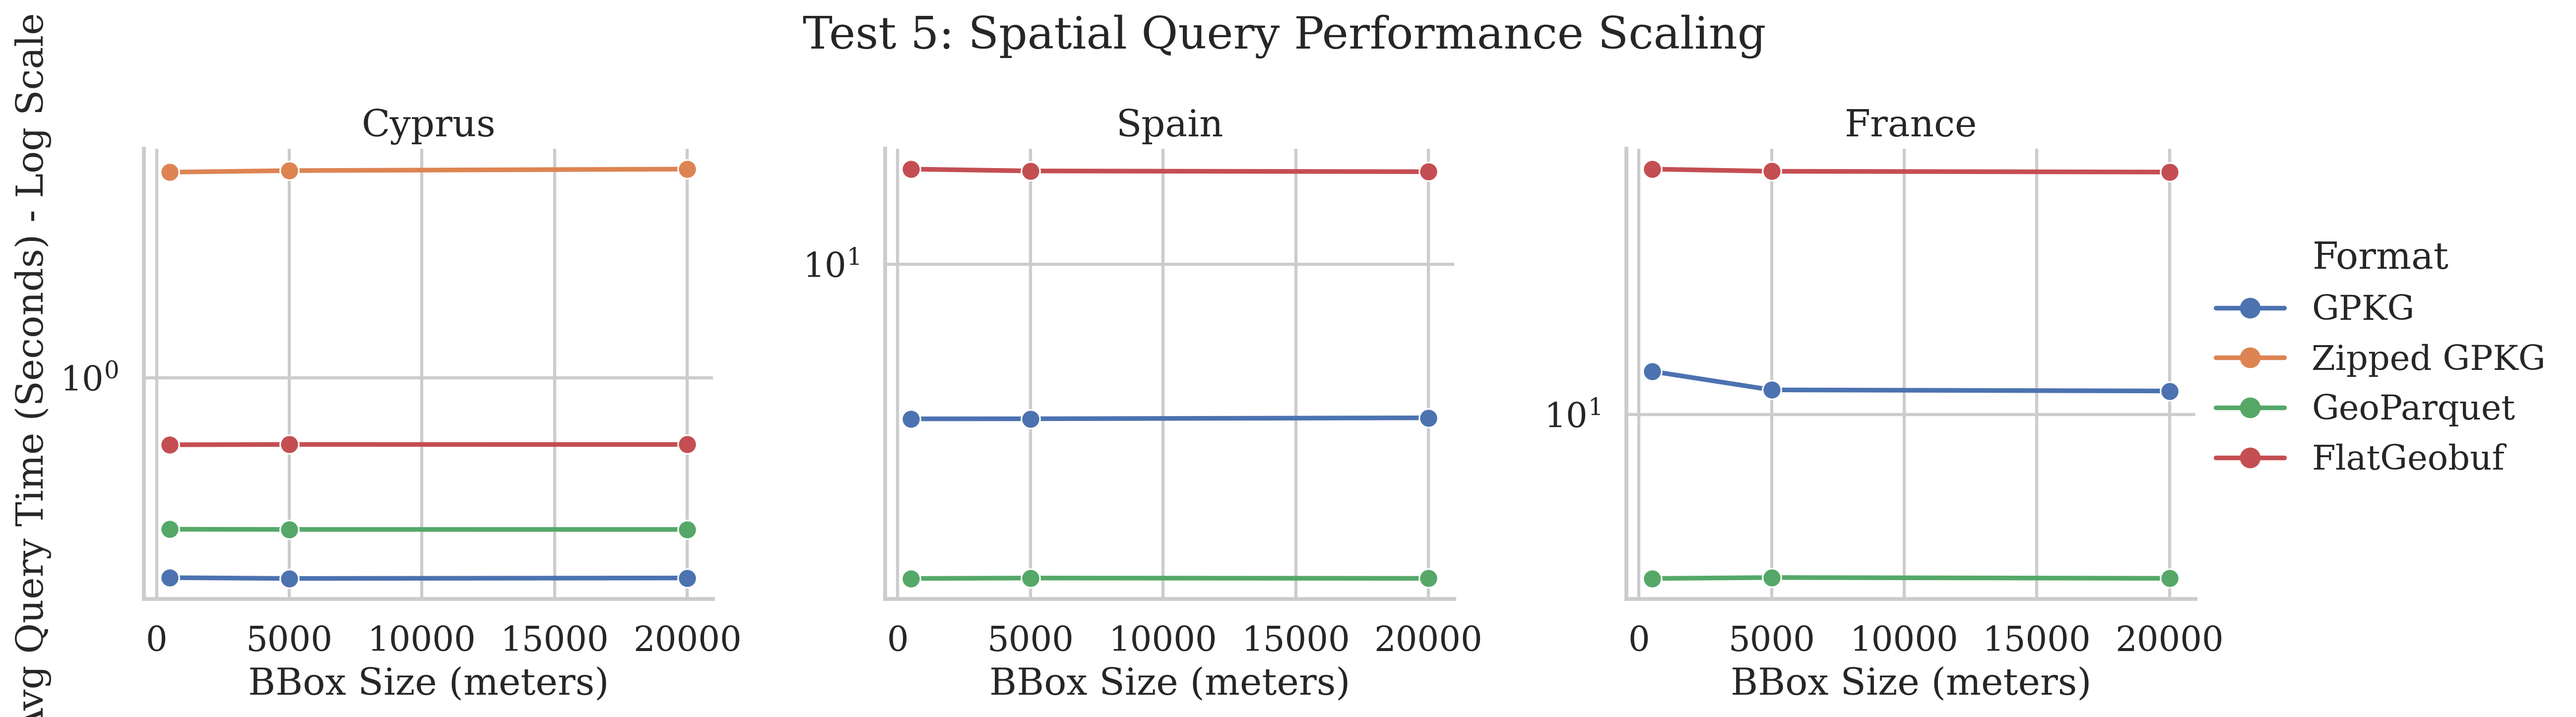
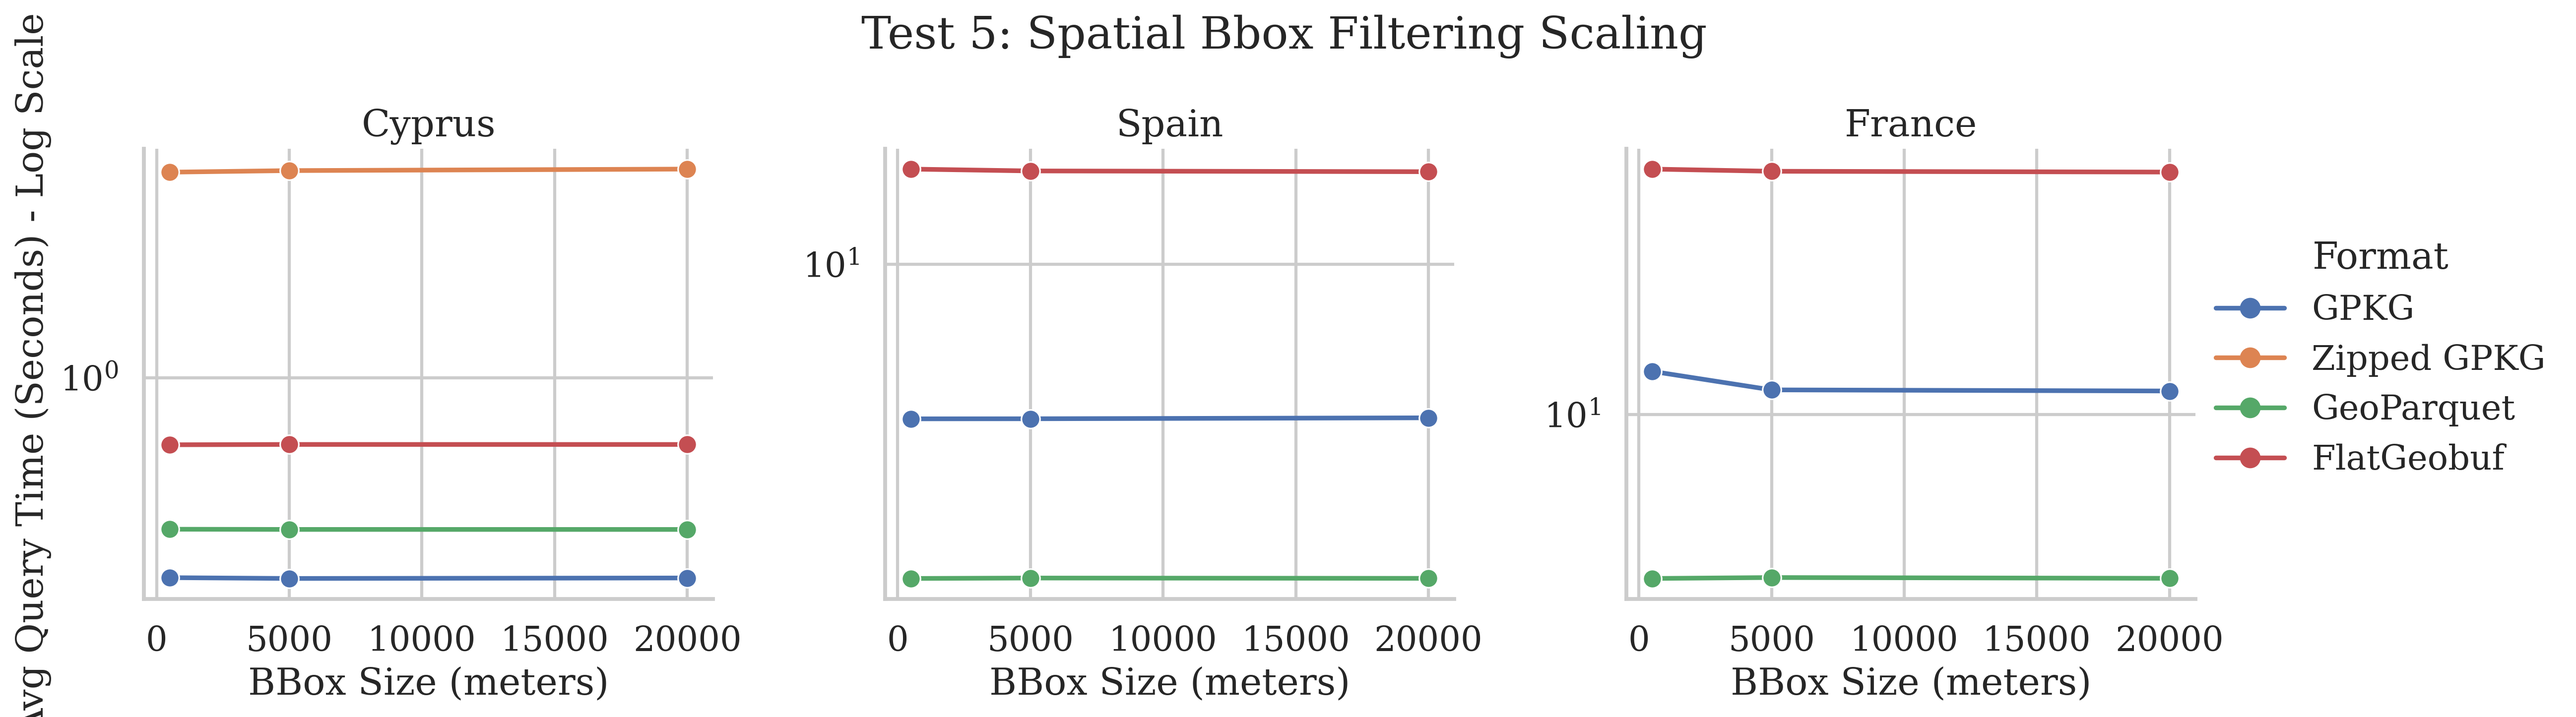
updated plot

Changed region(s): [[0.312, 0.0, 0.6864, 0.0934]]

diff --git a/benchmarking/generate_benchmarking_plots.py b/benchmarking/generate_benchmarking_plots.py
@@ -87,7 +87,7 @@ for ax in g5.axes.flat:
 g5.set_axis_labels("BBox Size (meters)", "Avg Query Time (Seconds) - Log Scale")
 g5.set_titles("{col_name}")
 plt.subplots_adjust(top=0.8)
-g5.fig.suptitle('Test 5: Spatial Query Performance Scaling')
+g5.fig.suptitle('Test 5: Spatial Bbox Filtering Scaling')
 plt.savefig("bench_5_bbox.png", dpi=300, bbox_inches='tight')
 
 print("5 Figures generated: bench_1_size.png to bench_5_bbox.png")
